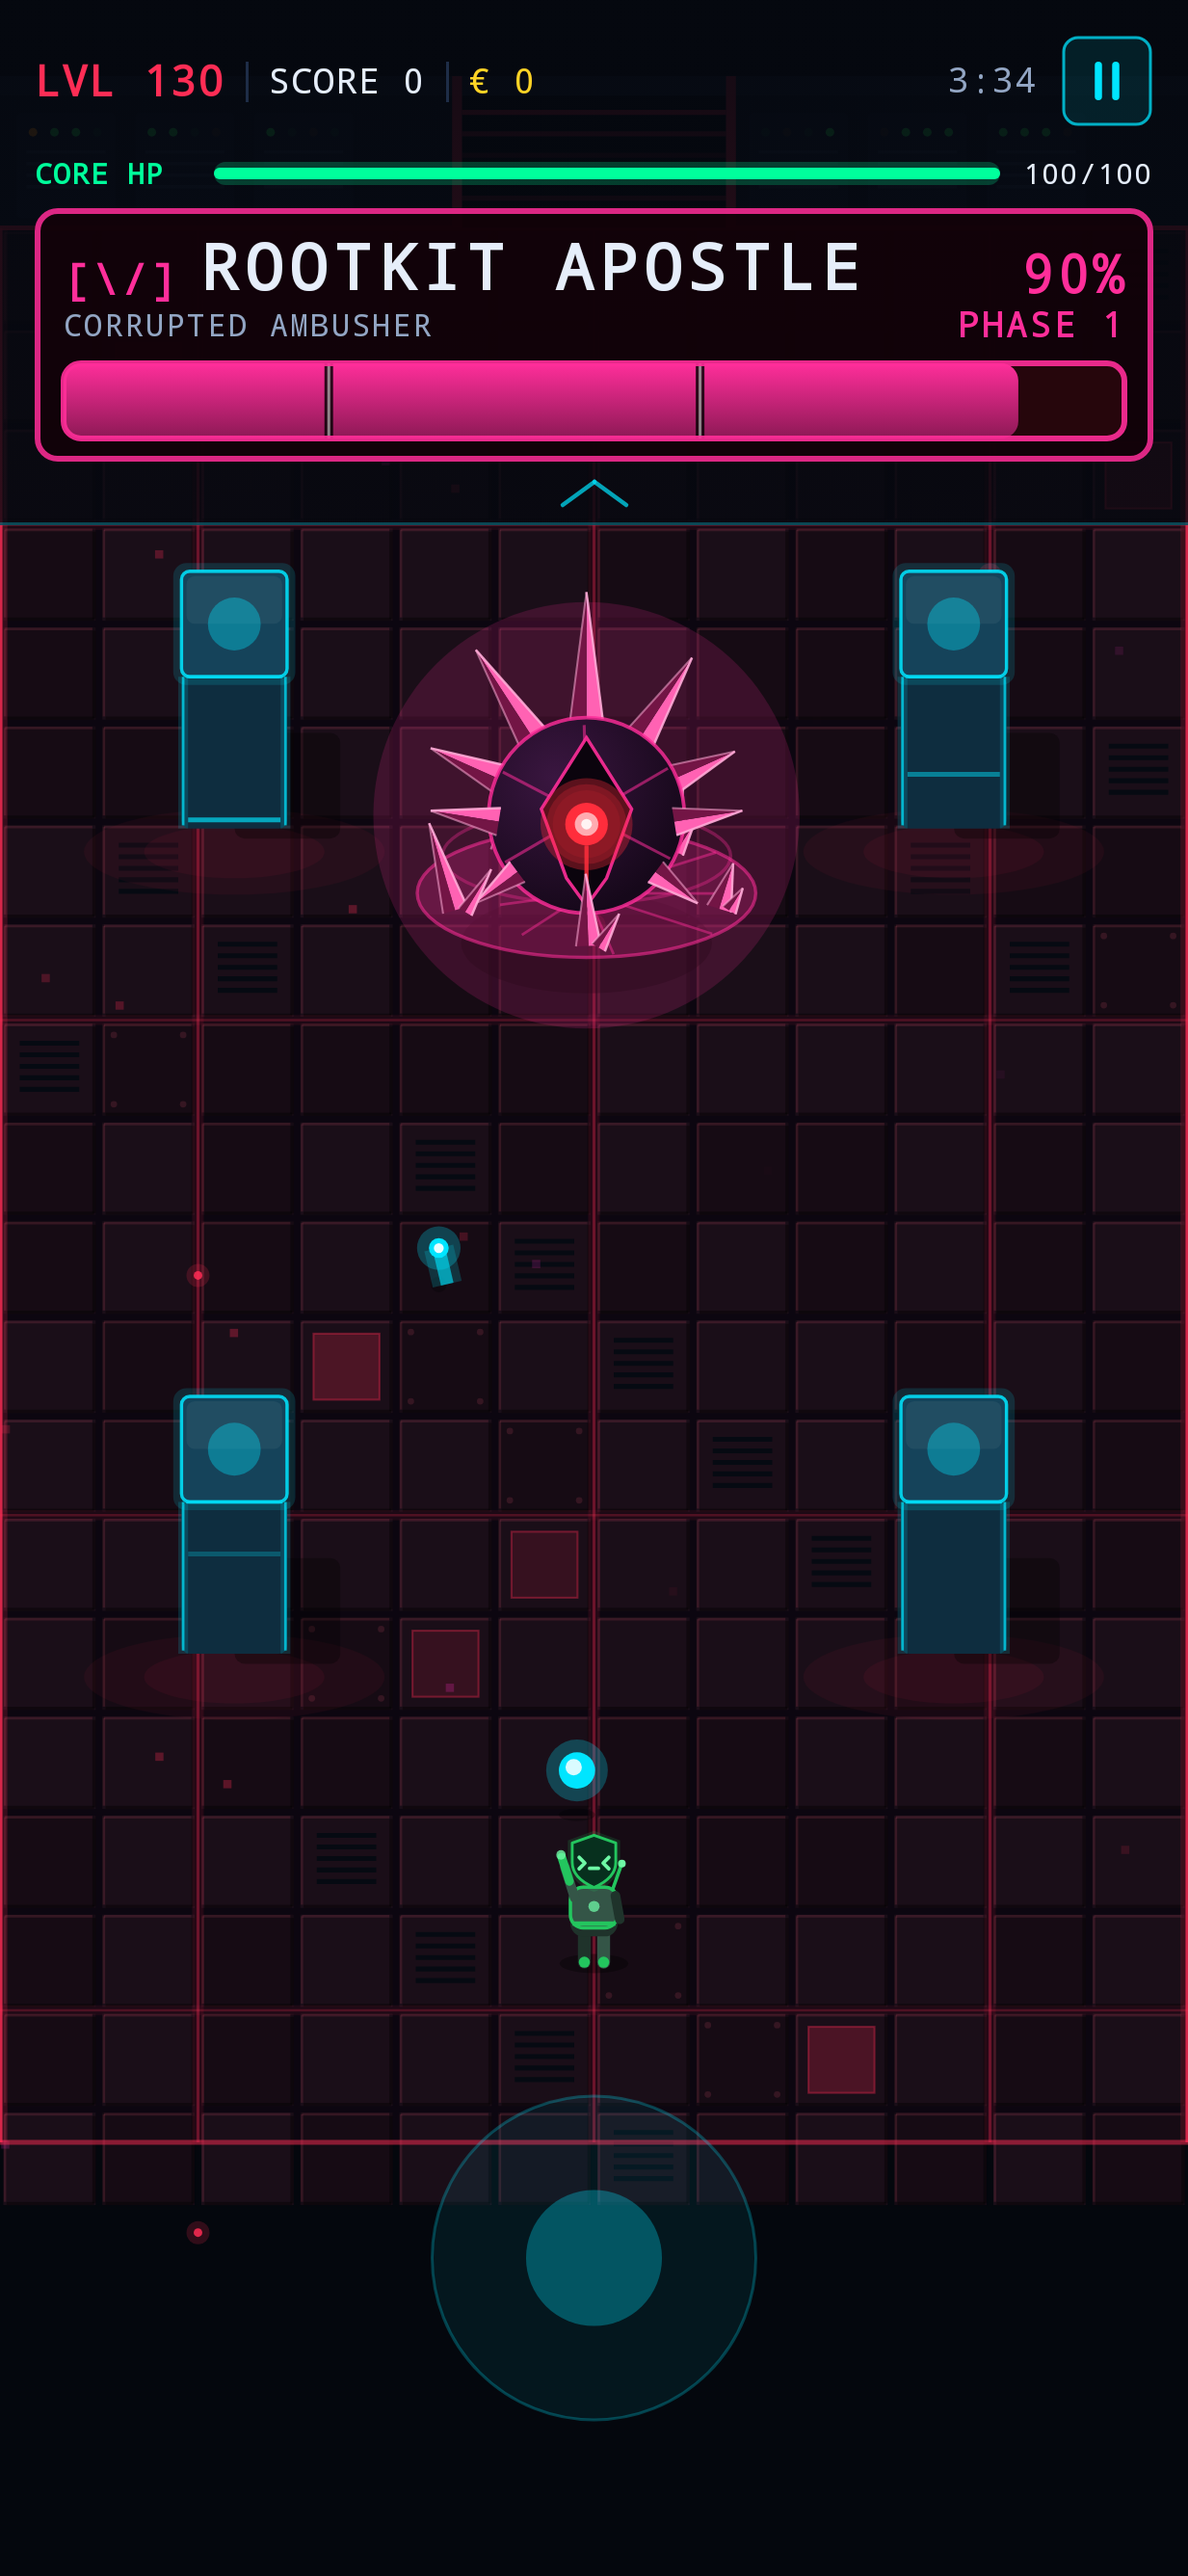
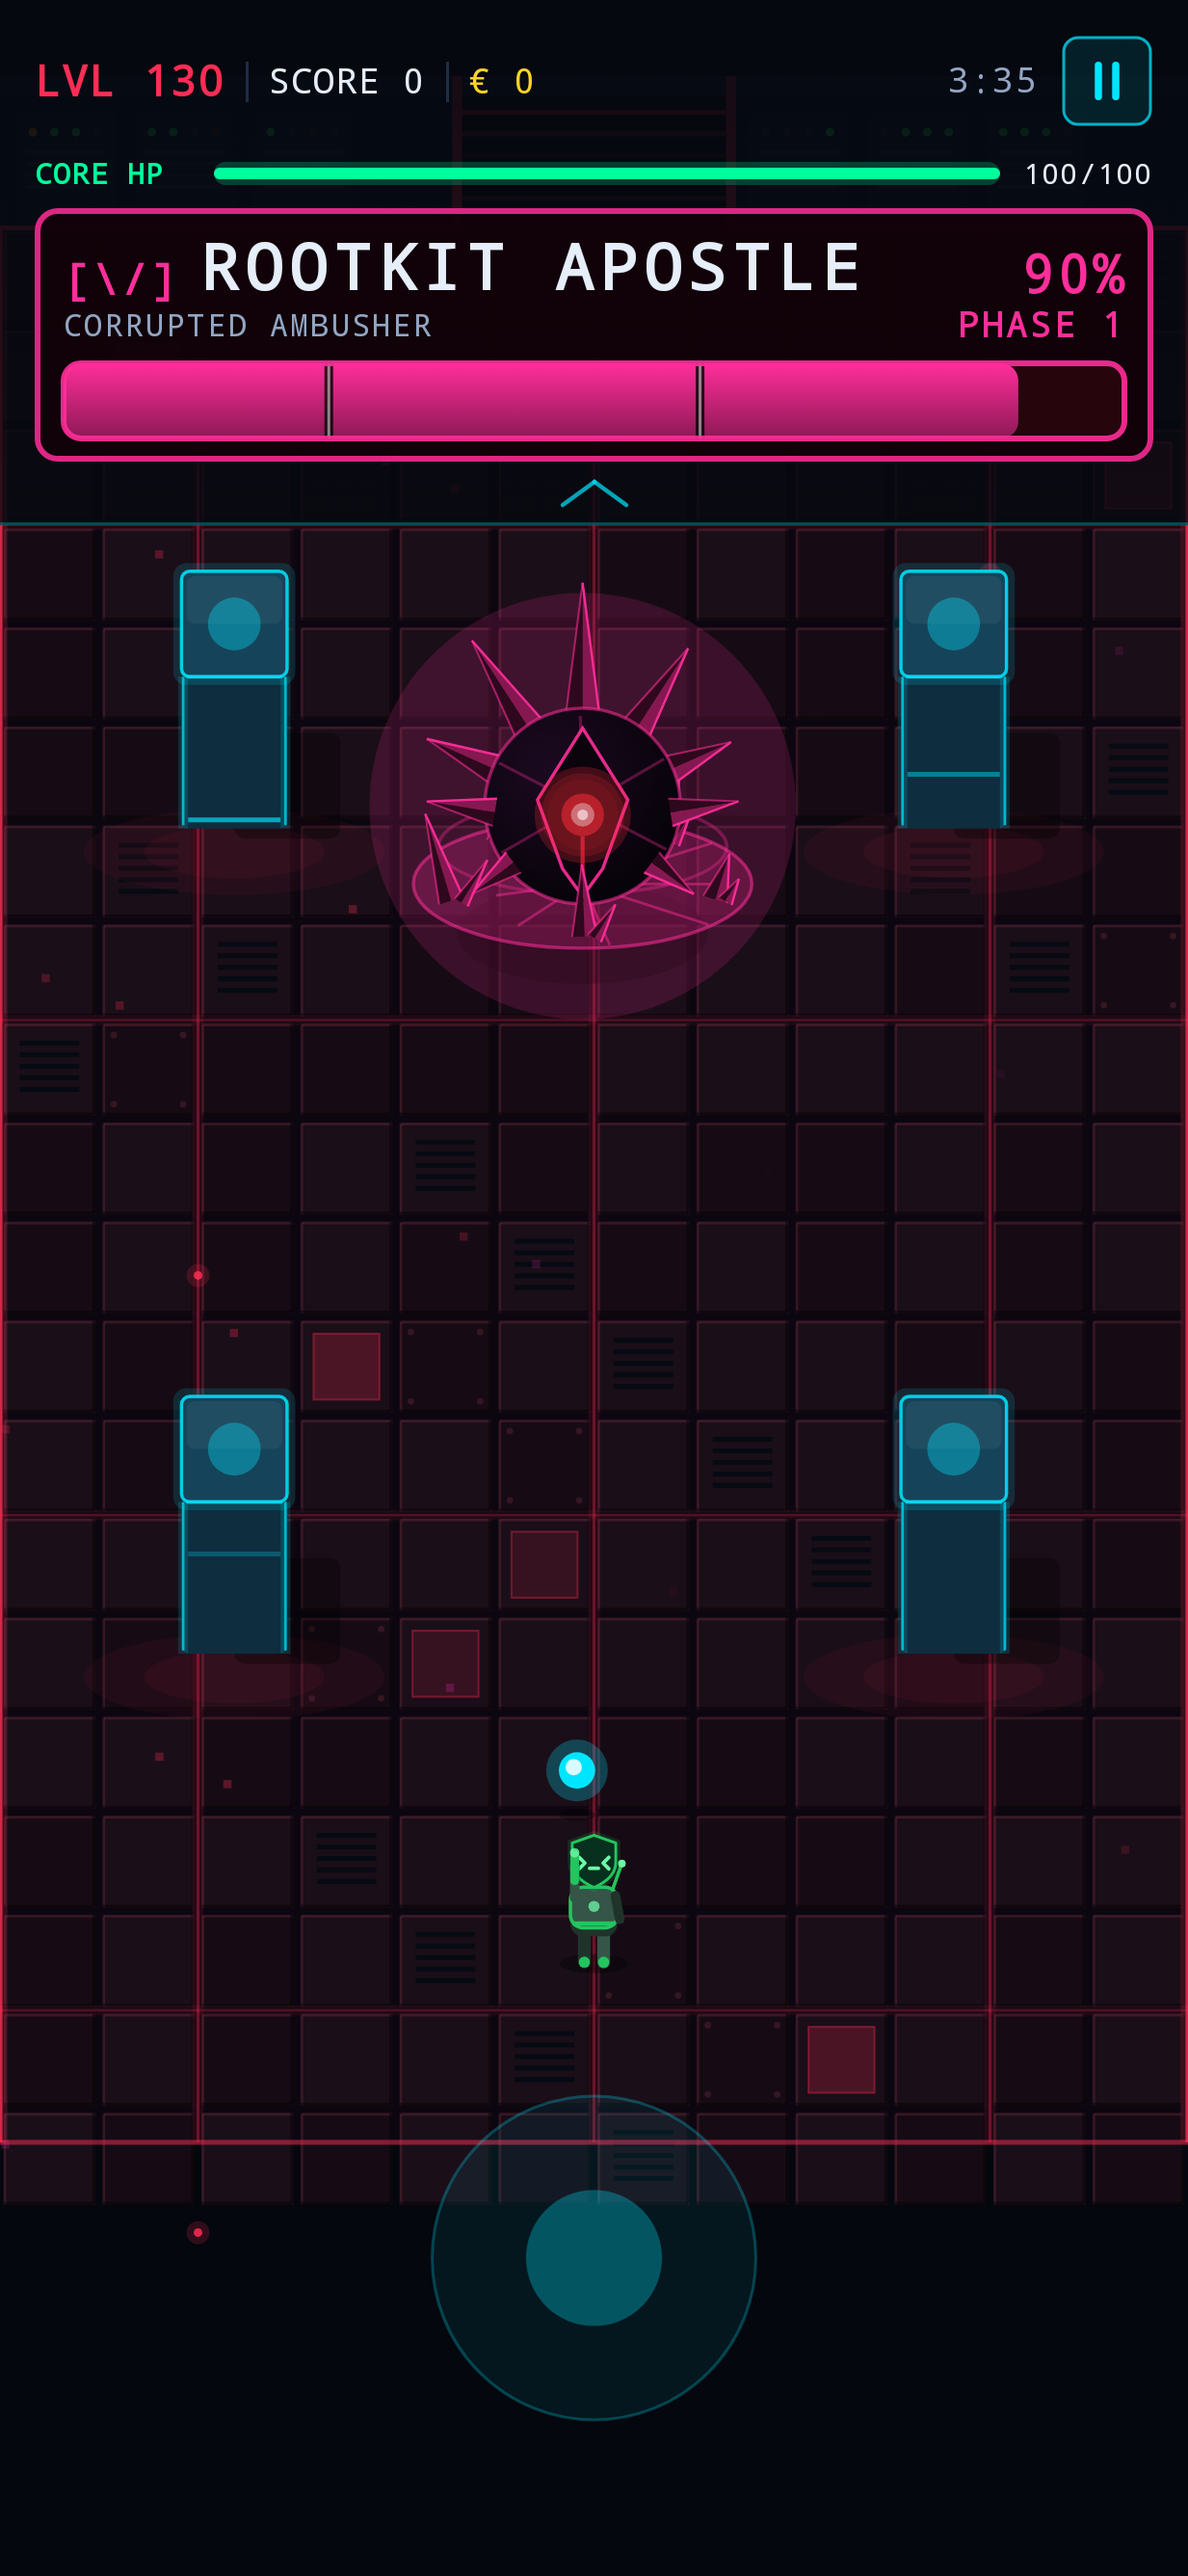
feat: Rootkit Apostle revision 2 — darker body, slowly breathing eye that blazes on attack; animated design GIF render
Claude-Session: https://claude.ai/code/session_01J4fYSi9rfQR62SLnfyrDCN

diff --git a/app/src/main/java/com/cyberoperative/game/ui/game/BossBodyRootkitApostle.kt b/app/src/main/java/com/cyberoperative/game/ui/game/BossBodyRootkitApostle.kt
@@ -17,8 +17,9 @@ import kotlin.math.sin
  * grows and the floor bloom spreads with each phase.
  */
 internal object RootkitApostleBody : BossBody {
-    private val SHELL = Color(0xFF16081A)
-    private val SHELL_LIT = Color(0xFF3A1640)
+    // Owner, 2026-10-10: "Darker body".
+    private val SHELL = Color(0xFF07030A)
+    private val SHELL_LIT = Color(0xFF1C0A20)
     private val EYE = Color(0xFFFF2D3C)
 
     /** Two-tone crystal spike from [base] toward angle [a], [len] long, [w] wide at the base. */
@@ -43,9 +44,12 @@ internal object RootkitApostleBody : BossBody {
         val pulse = 0.5f + 0.5f * sin(t * (2.5f + p.phase * 1.5f))
         val ground = p.cy + r * 0.62f
         // Charging: the crystals go white-hot instead of a glow that hides the body.
-        val lit = if (p.hitFlash) Color.White else lighter(pink, if (hot) 0.7f else 0.25f)
-        val dark = if (p.hitFlash) Color(0xFFDDDDDD) else darker(pink, 0.45f)
-        val edge = lighter(pink, 0.6f).copy(alpha = 0.9f)
+        // Dark crystals with bright magenta edges; white-hot while charging.
+        val lit = if (p.hitFlash) Color.White else if (hot) lighter(pink, 0.55f) else darker(pink, 0.52f)
+        val dark = if (p.hitFlash) Color(0xFFDDDDDD) else darker(pink, 0.18f)
+        val edge = pink.copy(alpha = 0.95f)
+        // The eye breathes slowly from dim to bright (~3 s) and blazes when it attacks (owner, 2026-10-10).
+        val breath = if (hot) 1f else 0.5f + 0.5f * sin(t * 2.1f)
 
         // Corrupted floor pool with veins, wider each phase.
         val pool = r * (1.35f + 0.25f * p.phase)
@@ -88,9 +92,9 @@ internal object RootkitApostleBody : BossBody {
         // Plate seams.
         for (i in 0 until 6) {
             val a = i * 1.047f + 0.5f
-            drawLine(pink.copy(alpha = 0.35f + 0.3f * pulse), Offset(p.cx + cos(a) * r * 0.32f, p.cy + sin(a) * r * 0.3f), Offset(p.cx + cos(a) * r * 0.76f, p.cy + sin(a) * r * 0.72f), 1.8f)
+            drawLine(pink.copy(alpha = 0.18f + 0.22f * breath), Offset(p.cx + cos(a) * r * 0.32f, p.cy + sin(a) * r * 0.3f), Offset(p.cx + cos(a) * r * 0.76f, p.cy + sin(a) * r * 0.72f), 1.8f)
         }
-        drawCircle(pink.copy(alpha = 0.8f), r * 0.78f, Offset(p.cx, p.cy), style = Stroke(2.2f))
+        drawCircle(pink.copy(alpha = 0.55f), r * 0.78f, Offset(p.cx, p.cy), style = Stroke(2f))
         // Side spikes off the orb.
         for (s in listOf(-1f, 1f)) {
             crystal(p.cx + s * r * 0.7f, p.cy + r * 0.05f, if (s < 0f) 3.3f else -0.16f, r * 0.55f * grow, r * 0.22f, lit, dark, edge)
@@ -111,12 +115,12 @@ internal object RootkitApostleBody : BossBody {
         drawPath(mask, pink.copy(alpha = 0.9f), style = Stroke(2f))
         val eyeC = Offset(p.cx + cos(p.aim) * r * 0.06f, p.cy + r * 0.02f + sin(p.aim) * r * 0.05f)
         val eyeR = r * (0.17f + 0.03f * p.phase)
-        glow(eyeC, eyeR * 1.3f, EYE, 1.2f + 0.6f * pulse + (if (hot) 0.8f else 0f))
-        drawCircle(EYE, eyeR, eyeC)
-        drawCircle(lighter(EYE, 0.6f), eyeR * 0.55f, eyeC)
-        drawCircle(Color.White.copy(alpha = if (hot) 1f else 0.85f), eyeR * 0.25f, eyeC)
+        glow(eyeC, eyeR * (1.15f + 0.35f * breath), EYE, 0.25f + 1.4f * breath + (if (hot) 1.6f else 0f))
+        drawCircle(darker(EYE, 0.3f + 0.7f * breath), eyeR, eyeC)
+        drawCircle(lighter(darker(EYE, 0.25f + 0.75f * breath), 0.6f * breath), eyeR * 0.55f, eyeC)
+        drawCircle(Color.White.copy(alpha = if (hot) 1f else 0.15f + 0.7f * breath), eyeR * 0.25f, eyeC)
         // Red code-slit running down the mask from the eye.
-        drawLine(EYE.copy(alpha = 0.6f + 0.4f * pulse), Offset(p.cx, eyeC.y + eyeR), Offset(p.cx, p.cy + r * 0.6f), 2.5f)
+        drawLine(EYE.copy(alpha = 0.2f + 0.7f * breath), Offset(p.cx, eyeC.y + eyeR), Offset(p.cx, p.cy + r * 0.6f), 2.5f)
 
         // Front shards over the orb's base.
         for (i in 0 until shards) if (sin(i * (6.283f / shards) + 0.3f) >= 0f) shard(i)

diff --git a/app/src/test/java/com/cyberoperative/game/BossDesignRenders.kt b/app/src/test/java/com/cyberoperative/game/BossDesignRenders.kt
@@ -79,6 +79,7 @@ class BossDesignRenders(private val bossId: String, private val shot: String) {
         when {
             shot == "sheet" -> sheet(def)
             shot == "fight" -> fight(def)
+            shot == "anim" -> anim(def)
             else -> attack(def, ATTACKS.getValue(def.id).first { it.name == shot })
         }
     }
@@ -153,6 +154,40 @@ class BossDesignRenders(private val bossId: String, private val shot: String) {
         capture("${def.id}_sheet")
     }
 
+    /**
+     * Idle loop then a charge, as numbered frames in build/boss_anim/<id>/
+     * (stitched into docs/bosses/designs/<id>_anim.gif by the caller).
+     */
+    private fun anim(def: BossDef) {
+        compose.mainClock.autoAdvance = false
+        val time = androidx.compose.runtime.mutableFloatStateOf(0f)
+        val winding = androidx.compose.runtime.mutableStateOf(false)
+        compose.setContent {
+            CyberOperativeTheme {
+                androidx.compose.foundation.layout.Box(Modifier.fillMaxSize().background(Color(0xFF05070D))) {
+                    BossBodyPreview(def, 0, time.floatValue, Modifier.fillMaxWidth().aspectRatio(1f), winding = winding.value)
+                    Text(
+                        if (winding.value) "CHARGING ATTACK" else "IDLE", color = Color(def.color),
+                        style = TextStyle(fontFamily = androidx.compose.ui.text.font.FontFamily.Monospace, fontSize = 14.sp, fontWeight = FontWeight.Bold),
+                        modifier = Modifier.padding(12.dp)
+                    )
+                }
+            }
+        }
+        val dir = File("build/boss_anim/${def.id}").apply { deleteRecursively(); mkdirs() }
+        val frames = 48
+        for (i in 0 until frames) {
+            time.floatValue = i * 0.1f
+            winding.value = i >= 36
+            compose.mainClock.advanceTimeBy(50)
+            val view = compose.activity.window.decorView
+            val w = view.width.coerceAtLeast(1)
+            val bmp = Bitmap.createBitmap(w, w, Bitmap.Config.ARGB_8888)
+            compose.runOnUiThread { view.draw(Canvas(bmp)) }
+            File(dir, "f%03d.png".format(i)).outputStream().use { bmp.compress(Bitmap.CompressFormat.PNG, 100, it) }
+        }
+    }
+
     private fun fight(def: BossDef) {
         val ctx = ApplicationProvider.getApplicationContext<android.app.Application>()
         val repo = SaveRepository(ctx)
@@ -194,7 +229,7 @@ class BossDesignRenders(private val bossId: String, private val shot: String) {
         @JvmStatic
         @ParameterizedRobolectricTestRunner.Parameters(name = "{0}_{1}")
         fun params(): List<Array<Any>> = BossExpansion.designed.flatMap { b ->
-            listOf(arrayOf<Any>(b.id, "sheet"), arrayOf<Any>(b.id, "fight")) + ATTACKS[b.id].orEmpty().map { arrayOf<Any>(b.id, it.name) }
+            listOf(arrayOf<Any>(b.id, "sheet"), arrayOf<Any>(b.id, "fight"), arrayOf<Any>(b.id, "anim")) + ATTACKS[b.id].orEmpty().map { arrayOf<Any>(b.id, it.name) }
         }
     }
 }

diff --git a/docs/BOSS_EXPANSION_LOG.md b/docs/BOSS_EXPANSION_LOG.md
@@ -230,7 +230,7 @@ CONTROLLER / AREA CONTROL / HUNTER on these four).
 | Boss | Sent | Status | Owner notes |
 |---|---|---|---|
 | Vault Sentinel | 2026-10-10 (`docs/bosses/designs/vault_sentinel_*.png`) | ✅ **FINAL**: body (20% larger) and attacks approved — "Vault sentinel looks great thank you." | "Looks great… can it be slightly larger? … show me its attacks … spawn cubes (barrier blocks out of the floor restricting player movement)" |
-| Rootkit Apostle | 2026-10-10 (`docs/bosses/designs/rootkit_apostle_*.png`) | ⏳ body waiting | |
+| Rootkit Apostle | 2026-10-10 (`docs/bosses/designs/rootkit_apostle_*`) | ⏳ revision 2 sent (darker body, breathing eye; animated GIF) | "Darker body, eye can glow dim to bright back and forth slowly and is bright when attack" |
 
 ---
 
@@ -258,3 +258,6 @@ CONTROLLER / AREA CONTROL / HUNTER on these four).
   Nullshade Specter). §2 now has the sheet's stats and abilities, and the quality bar is at the top.
   Vault Sentinel is final.
 - 2026-10-10 — Rootkit Apostle body drawn (radius 76, black orb, magenta crystal crown, mask eye, infected floor bloom) and sent for approval. Its def is in `designed` only; mechanics come next.
+- 2026-10-10 — Rootkit Apostle revision 2 (darker shell and crystals, eye breathes dim↔bright over ~3 s, blazes while charging).
+  - New `anim` render: 48 frames in `app/build/boss_anim/<id>/`, stitched into `docs/bosses/designs/<id>_anim.gif`
+    with PIL (resize 540, 128 colours, 100 ms frames).
